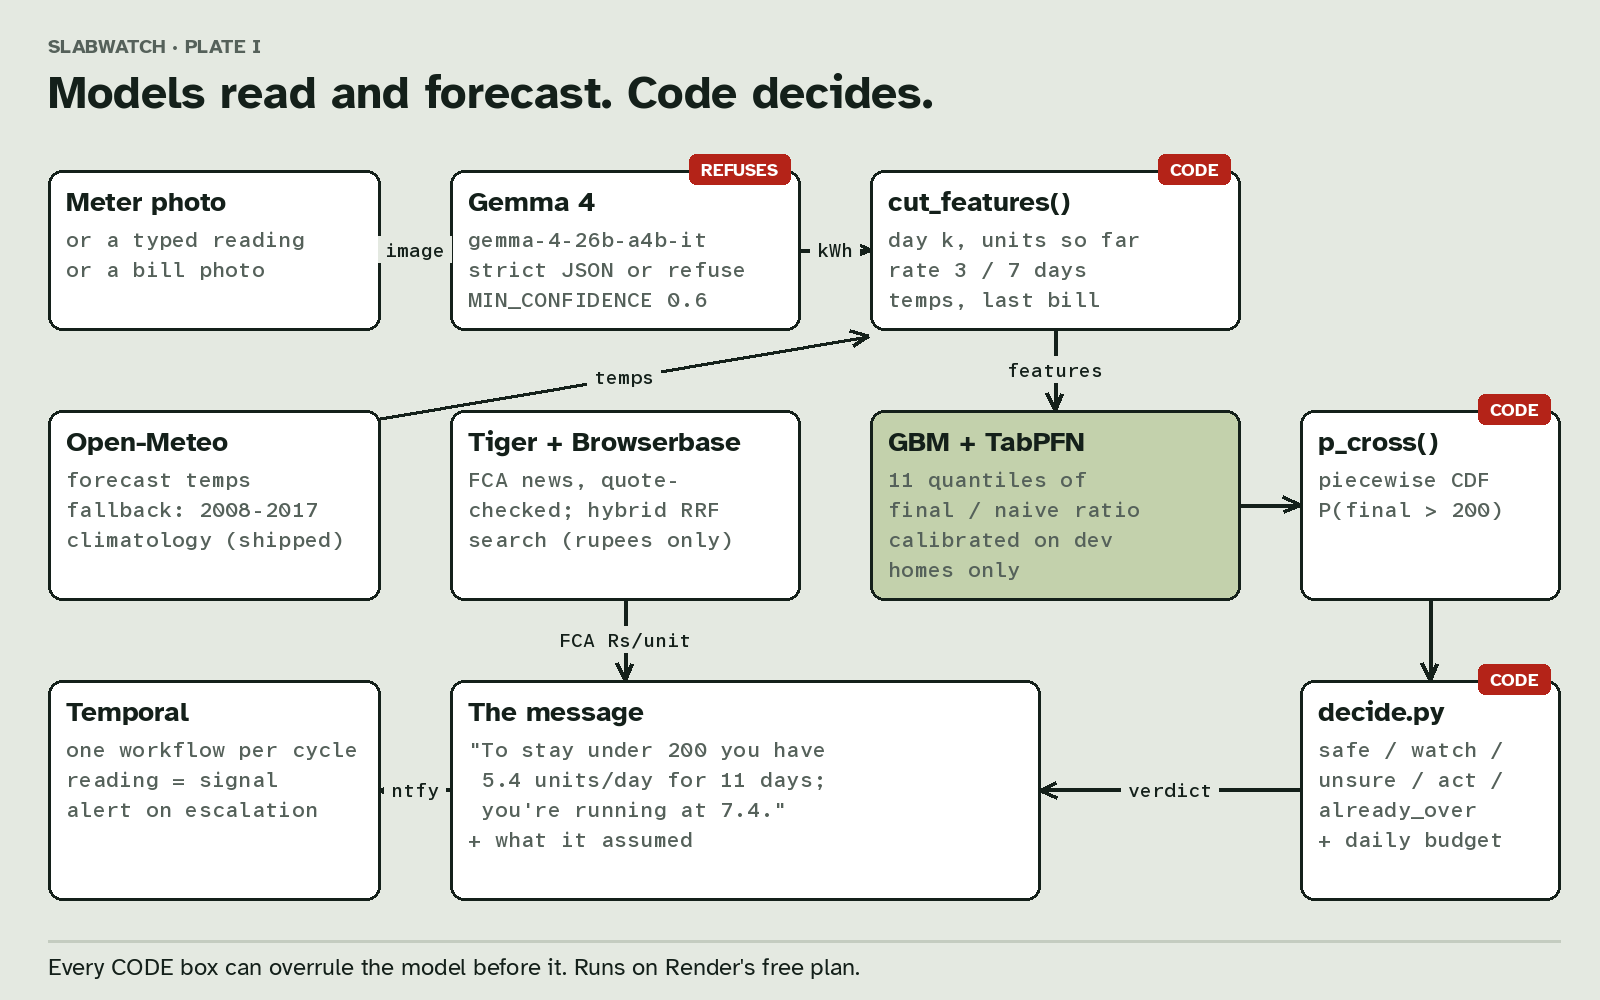
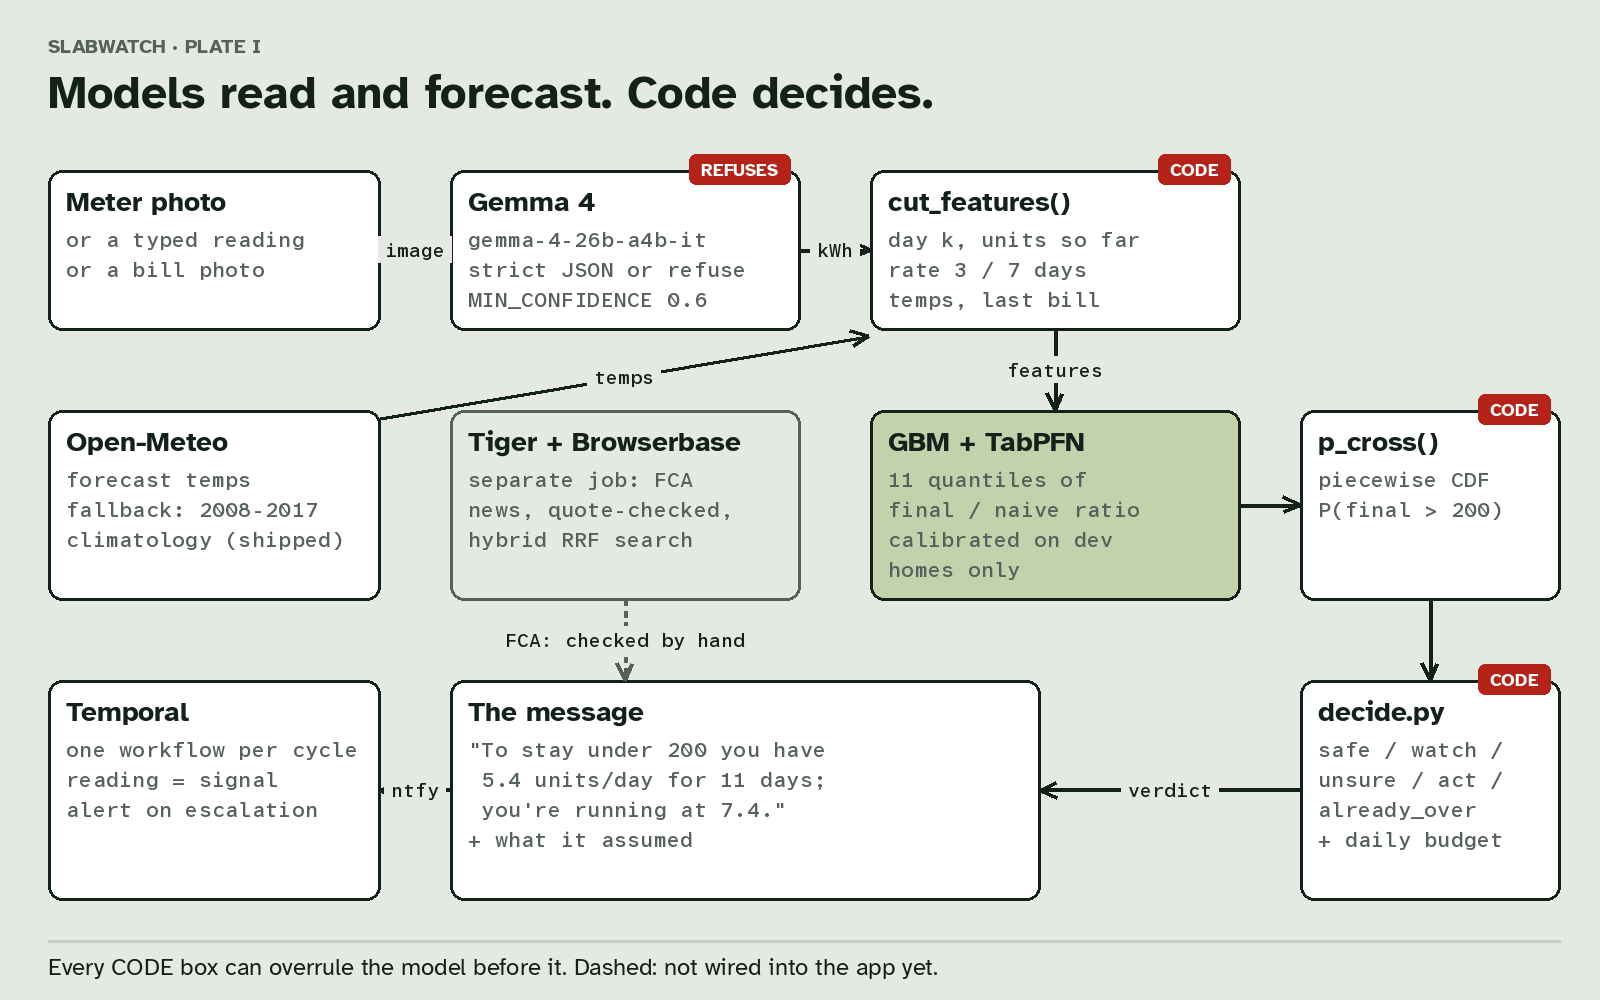
docs(images): new-design screenshots, case-study chart, FCA arrow marked as not wired

Changed region(s): [[0.2812, 0.403, 0.5, 0.682], [0.3438, 0.961, 0.5938, 0.992]]

diff --git a/scripts/post_images.py b/scripts/post_images.py
@@ -65,7 +65,7 @@ def before_after(before_src):
     d = ImageDraw.Draw(img)
     left = fit(Image.open(before_src), 780, 700)
     img.paste(left, (20, 180))
-    shot = Image.open(OUT / "app-live.png").convert("RGB")
+    shot = Image.open(OUT / "app-live-col.png").convert("RGB")
     shot.thumbnail((760, 700), Image.LANCZOS)
     panel = Image.new("RGB", (780, 700), "#121815")
     panel.paste(shot, ((780 - shot.width) // 2, (700 - shot.height) // 2))
@@ -136,18 +136,19 @@ def plate_system():
                                                    " you're running at 7.4.\"", "+ what it assumed"])
     box(d, (48, 680, 380, 900), "Temporal", ["one workflow per cycle", "reading = signal", "alert on escalation"])
     box(d, (48, 410, 380, 600), "Open-Meteo", ["forecast temps", "fallback: 2008-2017", "climatology (shipped)"])
-    box(d, (450, 410, 800, 600), "Tiger + Browserbase", ["FCA news, quote-", "checked; hybrid RRF", "search (rupees only)"])
+    box(d, (450, 410, 800, 600), "Tiger + Browserbase", ["separate job: FCA", "news, quote-checked,", "hybrid RRF search"],
+        fill=CASING, edge=MUTED)
     arrow(d, (380, 250), (450, 250), label="image")
     arrow(d, (800, 250), (870, 250), label="kWh")
     arrow(d, (380, 418), (868, 336), label="temps")
-    arrow(d, (625, 600), (625, 680), label="FCA Rs/unit")
+    arrow(d, (625, 600), (625, 680), dashed=True, label="FCA: checked by hand", color=MUTED)
     arrow(d, (1055, 330), (1055, 410), label="features")
     arrow(d, (1240, 505), (1300, 505))
     arrow(d, (1430, 600), (1430, 680))
     arrow(d, (1300, 790), (1040, 790), label="verdict")
     arrow(d, (450, 790), (380, 790), dashed=True, label="ntfy")
     d.rectangle((48, 940, 1560, 942), fill=RULE)
-    d.text((48, 952), "Every CODE box can overrule the model before it. Runs on Render's free plan.",
+    d.text((48, 952), "Every CODE box can overrule the model before it. Dashed: not wired into the app yet.",
            font=font(24), fill=INK)
     img.save(OUT / "plate-system.png")
 
@@ -219,6 +220,49 @@ def plate_sides():
     fig.savefig(OUT / "plate-sides.png")
 
 
+def plate_cases():
+    """Three day-14 disagreements from results/session-outcomes.json: real cumulative units vs the straight line."""
+    import datetime as dt
+
+    import pandas as pd
+    plt = _mpl()
+    o = load("results/session-outcomes.json")
+    rows = {(r["house"], r["cycle_start"]): r for r in o["day14_disagreements"]}
+    daily = pd.read_parquet("data/precon/daily.parquet")
+    picks = [((24, "2019-03-30"), "April: the AC season starts"), ((14, "2018-10-05"), "October: it cools down"),
+             ((36, "2018-11-13"), "November: arithmetic wins")]
+    fig, axes = plt.subplots(1, 3, figsize=(18, 7.2), dpi=100, sharey=True)
+    for ax, (key, title) in zip(axes, picks):
+        r = rows[key]
+        start = dt.date.fromisoformat(key[1])
+        s = daily[daily.house == key[0]].set_index("date")["kwh"]
+        s.index = pd.to_datetime(s.index).date
+        cum, tot = [0.0], 0.0
+        for i in range(30):
+            tot += float(s.get(start + dt.timedelta(days=i), 0.0))
+            cum.append(tot)
+        ax.plot(range(15), cum[:15], color=INK, lw=3)
+        ax.plot(range(14, 31), cum[14:], color=INK, lw=3, ls=":", label="what actually happened")
+        ax.plot([14, 30], [cum[14], r["naive"]], color=MUTED, lw=2.5, ls="--", label="arithmetic from day 14")
+        ax.vlines(30.6, r["p10"], min(r["p90"], 300), color=BAND, lw=10, alpha=0.6, label="model P10-P90 at day 30")
+        ax.plot([30.6], [r["p50"] if r["p50"] < 300 else 300], marker="o", color=INK)
+        ax.axhline(200, color=LIMIT, lw=2)
+        ax.axvline(14, color=RULE, lw=1)
+        ok_m = (r["p_cross"] >= 0.5) == r["crossed"]
+        ax.set_title(f"House {key[0]}, from {key[1]}\n{title}", loc="left", fontsize=17, fontweight="bold", color=INK)
+        ax.text(1, 285, f"arithmetic: {r['naive']:.0f}\nmodel: {r['p_cross']:.0%} over ({r['verdict']})\nfinal: {r['final']:.0f}",
+                fontsize=14, color=INK, va="top")
+        ax.text(29.5, 288, "model right" if ok_m else "model wrong", ha="right", fontsize=15, fontweight="bold",
+                color=SAFE if ok_m else LIMIT)
+        ax.set_xlim(0, 32)
+        ax.set_ylim(0, 300)
+        ax.set_xlabel("day of the cycle")
+    axes[0].set_ylabel("units used so far")
+    axes[0].legend(loc="lower right", frameon=False, fontsize=12)
+    fig.tight_layout()
+    fig.savefig(OUT / "plate-cases.png")
+
+
 def meters_grid():
     ev = load("results/gemma/meter-eval.json")["per_photo"]
     v1 = load("results/gemma/meter-eval-v1.json")["per_photo"]
@@ -260,5 +304,6 @@ if __name__ == "__main__":
     plate_system()
     plate_replay()
     plate_sides()
+    plate_cases()
     meters_grid()
     print(sorted(p.name for p in OUT.iterdir()))

diff --git a/scripts/session_outcomes.py b/scripts/session_outcomes.py
@@ -1,0 +1,43 @@
+"""Household-level outcomes and case studies from results/session-aggregate.json (no new model runs).
+
+  python scripts/session_outcomes.py   -> results/session-outcomes.json
+"Arithmetic" = units so far / days elapsed x 30 > 200. "Alert" = verdict act or already_over (the only verdicts
+that send a message). Case studies: at day 14, every cycle where exactly one of the two was on the right side.
+"""
+import json
+from pathlib import Path
+
+d = json.loads(Path("results/session-aggregate.json").read_text())
+rows = d["rows"]
+alert = lambda r: r["verdict"] in ("act", "already_over")  # noqa: E731
+by_cut = {}
+for cut in sorted({r["cut"] for r in rows}):
+    g = [r for r in rows if r["cut"] == cut]
+    crossed = [r for r in g if r["crossed"]]
+    by_cut[cut] = {
+        "cycles": len(g), "crossed": len(crossed),
+        "alerts": sum(alert(r) for r in g), "alerts_real": sum(alert(r) and r["crossed"] for r in g),
+        "arithmetic_over": sum(r["naive"] > 200 for r in g),
+        "arithmetic_over_real": sum(r["naive"] > 200 and r["crossed"] for r in g),
+        "model_only_right": sum(((r["p_cross"] >= 0.5) == r["crossed"]) and ((r["naive"] > 200) != r["crossed"])
+                                for r in g),
+        "arithmetic_only_right": sum(((r["p_cross"] >= 0.5) != r["crossed"]) and ((r["naive"] > 200) == r["crossed"])
+                                     for r in g),
+    }
+first = {}
+for r in sorted(rows, key=lambda r: r["cut"]):
+    k = (r["house"], r["cycle_start"])
+    if r["crossed"] and alert(r) and k not in first:
+        first[k] = r["cut"]
+crossed_cycles = {(r["house"], r["cycle_start"]) for r in rows if r["crossed"]}
+warned = {"crossed_cycles": len(crossed_cycles),
+          **{f"warned_by_day_{c}": sum(1 for k in crossed_cycles if first.get(k, 99) <= c) for c in (10, 14)},
+          "never_warned": sum(1 for k in crossed_cycles if k not in first)}
+cases = [r for r in rows if r["cut"] == 14 and (((r["p_cross"] >= 0.5) == r["crossed"]) != ((r["naive"] > 200) == r["crossed"]))]
+out = {"source": "results/session-aggregate.json", "by_cut": by_cut, "warned": warned,
+       "day14_disagreements": sorted(cases, key=lambda r: (r["house"], r["cycle_start"]))}
+Path("results/session-outcomes.json").write_text(json.dumps(out, indent=1))
+print(json.dumps({"day14": by_cut[14], "warned": warned}, indent=1))
+for r in out["day14_disagreements"]:
+    print(r["house"], r["cycle_start"], "final", r["final"], "arith", r["naive"], "p50", r["p50"],
+          f"P {r['p_cross']:.0%}", r["verdict"])
